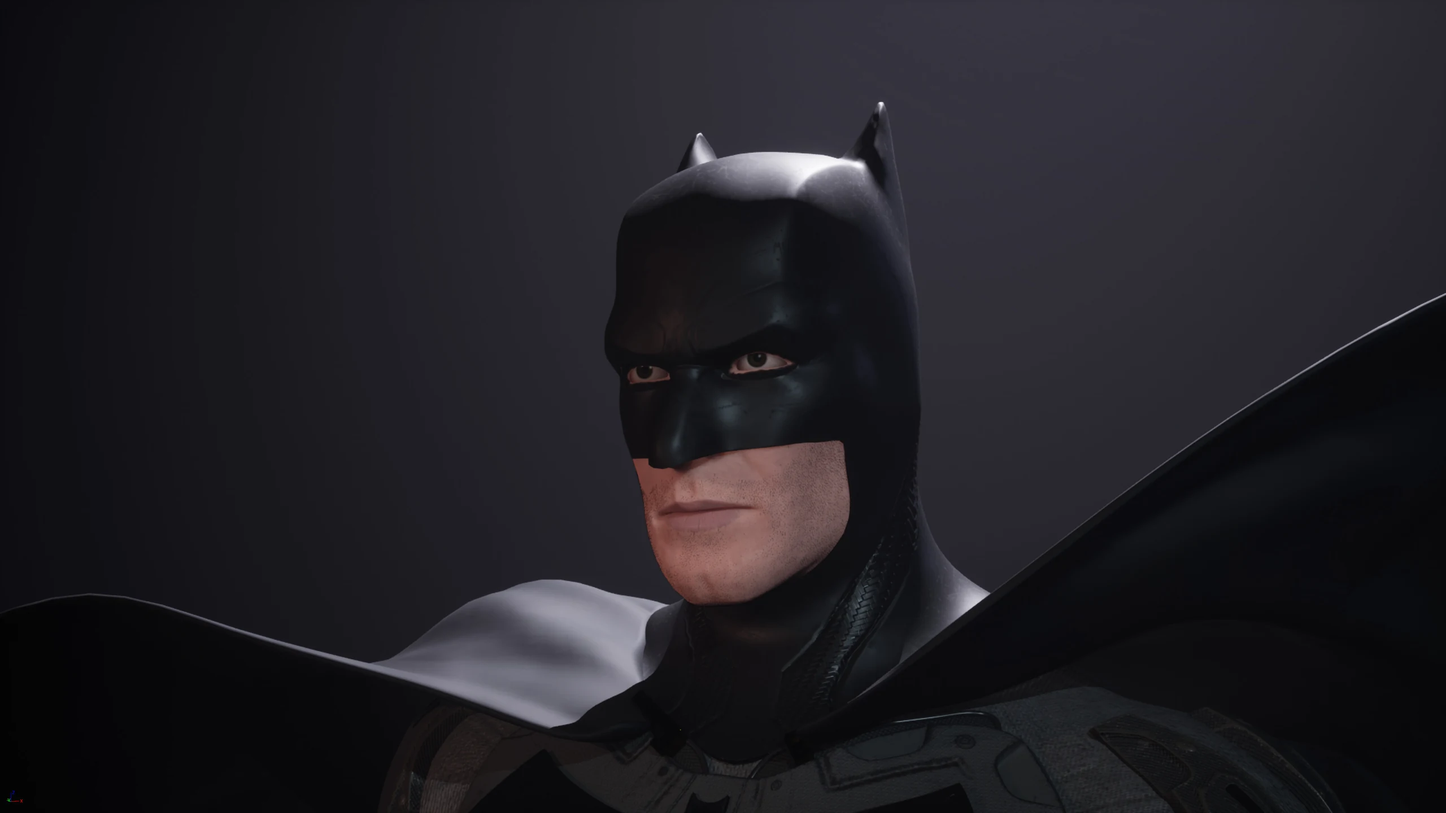
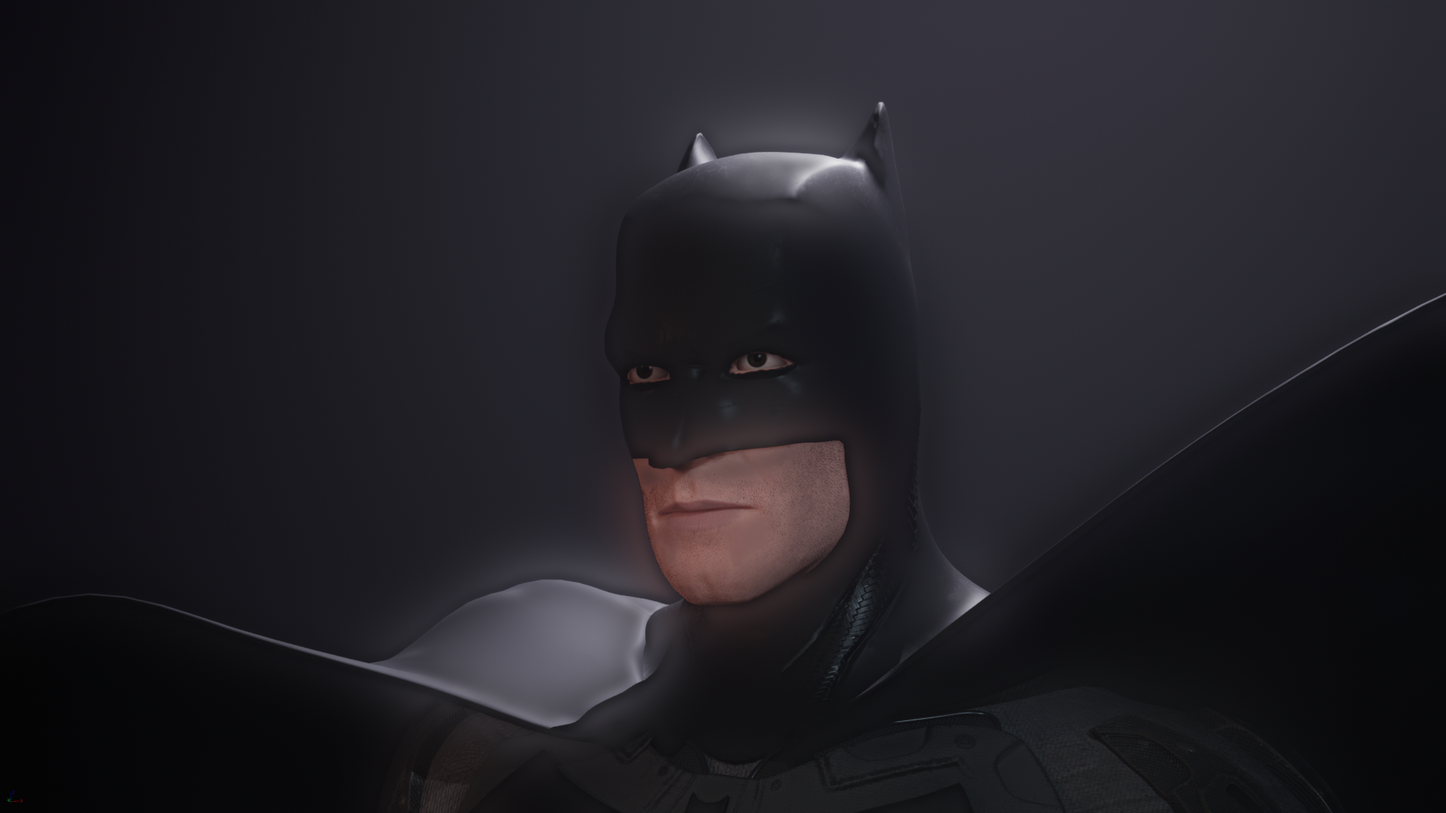
Deband Batman spotlight renders
Reconstruct the smooth spotlight falloff with a float-precision masked
gaussian (character protected by a local-contrast mask), add fine grain,
and store the 9 affected images as lossless WebP served unoptimized so
no lossy pass can reintroduce the banding.

Claude-Session: https://claude.ai/code/session_01He9NqtK9mh4hcbnbeGeFwa

diff --git a/app/3d-art/artData.ts b/app/3d-art/artData.ts
@@ -1,6 +1,7 @@
 export interface ArtAsset {
   type: "image" | "video" | "youtube" | "sketchfab";
   src: string;
+  lossless?: boolean;
   width?: number;
   height?: number;
   poster?: string;
@@ -31,15 +32,15 @@ export const artProjects: ArtProject[] = [
     cover: "/images/artstation/batman/01.webp",
     coverAspect: 1.7778,
     assets: [
-      { type: "image", src: "/images/artstation/batman/01.webp", width: 2560, height: 1440 },
-      { type: "image", src: "/images/artstation/batman/02.webp", width: 2560, height: 1440 },
-      { type: "image", src: "/images/artstation/batman/03.webp", width: 2560, height: 1440 },
-      { type: "image", src: "/images/artstation/batman/04.webp", width: 2560, height: 1440 },
-      { type: "image", src: "/images/artstation/batman/05.webp", width: 2560, height: 1440 },
-      { type: "image", src: "/images/artstation/batman/06.webp", width: 2560, height: 1440 },
-      { type: "image", src: "/images/artstation/batman/07.webp", width: 2560, height: 1440 },
-      { type: "image", src: "/images/artstation/batman/08.webp", width: 2560, height: 1440 },
-      { type: "image", src: "/images/artstation/batman/09.webp", width: 2560, height: 1440 },
+      { type: "image", src: "/images/artstation/batman/01.webp", lossless: true, width: 2560, height: 1440 },
+      { type: "image", src: "/images/artstation/batman/02.webp", lossless: true, width: 2560, height: 1440 },
+      { type: "image", src: "/images/artstation/batman/03.webp", lossless: true, width: 2560, height: 1440 },
+      { type: "image", src: "/images/artstation/batman/04.webp", lossless: true, width: 2560, height: 1440 },
+      { type: "image", src: "/images/artstation/batman/05.webp", lossless: true, width: 2560, height: 1440 },
+      { type: "image", src: "/images/artstation/batman/06.webp", lossless: true, width: 2560, height: 1440 },
+      { type: "image", src: "/images/artstation/batman/07.webp", lossless: true, width: 2560, height: 1440 },
+      { type: "image", src: "/images/artstation/batman/08.webp", lossless: true, width: 2560, height: 1440 },
+      { type: "image", src: "/images/artstation/batman/09.webp", lossless: true, width: 2560, height: 1440 },
       { type: "image", src: "/images/artstation/batman/10.webp", width: 2560, height: 1440 },
       { type: "image", src: "/images/artstation/batman/11.webp", width: 2560, height: 1733 },
       { type: "image", src: "/images/artstation/batman/12.webp", width: 2560, height: 1733 },

diff --git a/app/3d-art/page.tsx b/app/3d-art/page.tsx
@@ -56,6 +56,8 @@ function AssetView({ asset, title }: { asset: ArtAsset; title: string }) {
       width={asset.width || 1920}
       height={asset.height || 1080}
       quality={92}
+      // lossless assets are debanded masters; re-encoding would restore banding
+      unoptimized={asset.lossless}
       sizes="(max-width: 1024px) 100vw, 896px"
       className="w-full h-auto rounded-lg"
     />

diff --git a/scripts/artstation-sync/deband_spotlight.py b/scripts/artstation-sync/deband_spotlight.py
@@ -1,0 +1,38 @@
+"""Deband dark spotlight-gradient renders (Batman set, images 01-09).
+
+The ArtStation source JPEGs band in the smooth background falloff. This
+reconstructs the gradient with a float-precision wide gaussian restricted to
+flat regions (character/edges protected by a local-contrast mask), adds fine
+grain so 8-bit quantization can't re-band, and saves LOSSLESS WebP. The page
+must serve these files without re-encoding (next/image `unoptimized`), or a
+lossy pass will strip the grain and bring the banding back.
+
+Usage: python3 deband_spotlight.py <src.jpg> <out.webp>
+"""
+
+import sys
+import numpy as np
+from PIL import Image
+from scipy.ndimage import gaussian_filter
+
+
+def deband(src, out, max_dim=2560):
+    im = Image.open(src).convert("RGB")
+    a = np.asarray(im, dtype=np.float32)
+    small = gaussian_filter(a, sigma=(6, 6, 0))
+    detail = np.abs(a - small).max(axis=2)
+    flat = gaussian_filter((detail < 2.5).astype(np.float32), sigma=15)[..., None]
+    wide = gaussian_filter(a, sigma=(90, 90, 0))
+    result = wide * flat + a * (1 - flat)
+    rng = np.random.default_rng(42)
+    result = np.clip(result + rng.normal(0, 0.9, result.shape), 0, 255)
+    img = Image.fromarray(result.astype("uint8"))
+    w, h = img.size
+    if max(w, h) > max_dim:
+        s = max_dim / max(w, h)
+        img = img.resize((round(w * s), round(h * s)), Image.LANCZOS)
+    img.save(out, "WEBP", lossless=True, quality=100, method=6)
+
+
+if __name__ == "__main__":
+    deband(sys.argv[1], sys.argv[2])
